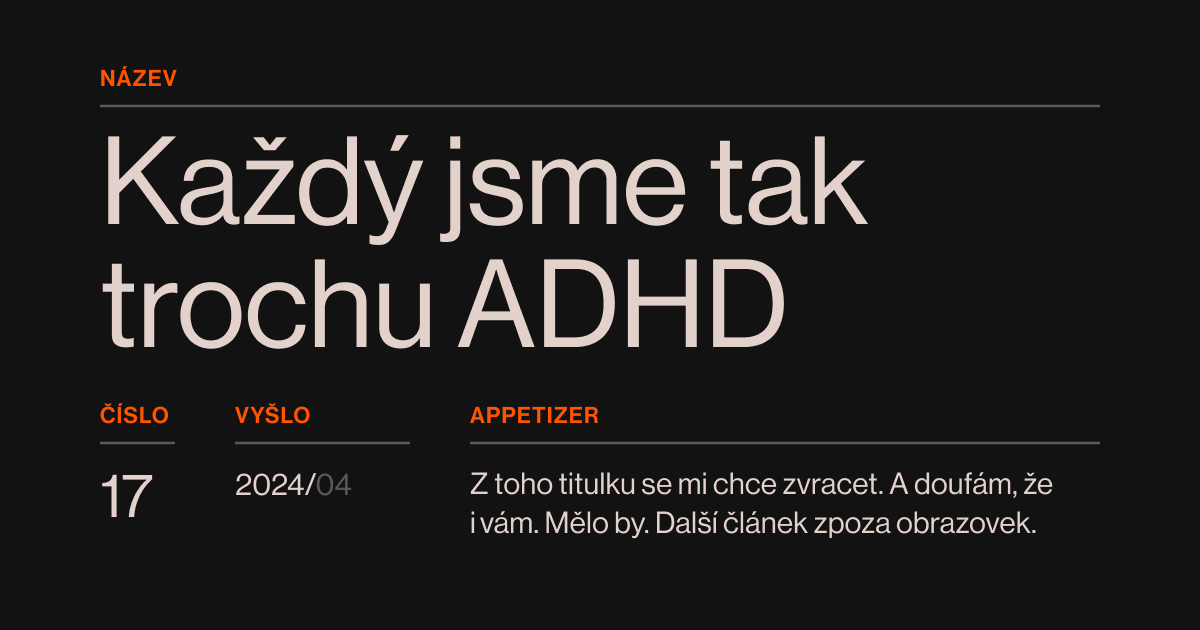
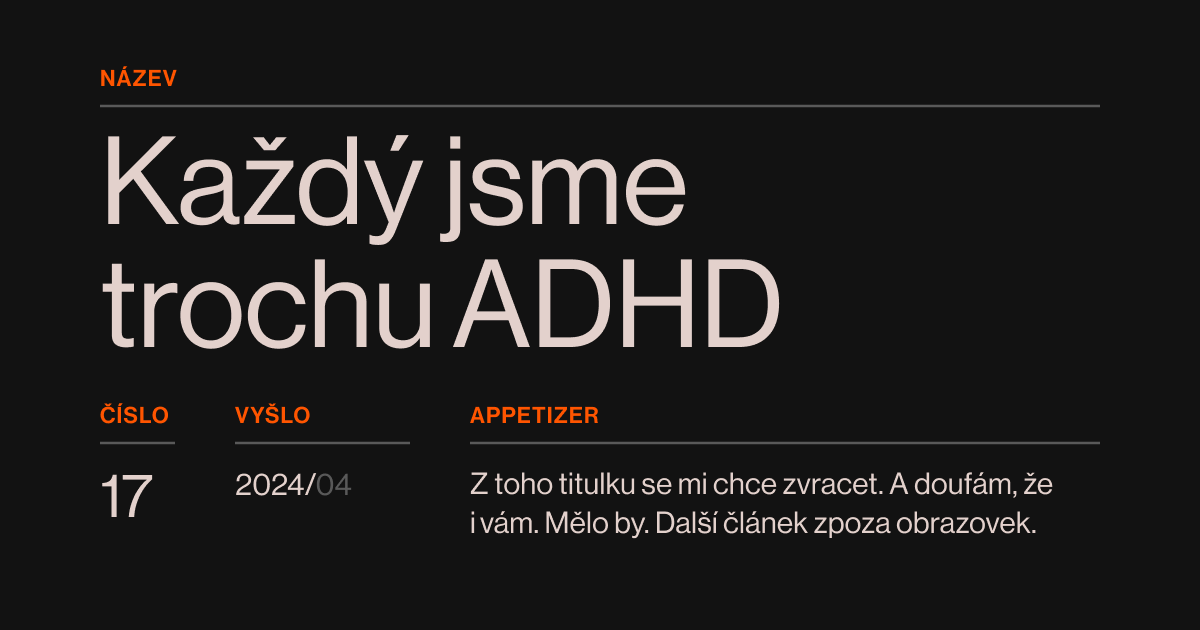
minor changes

Changed region(s): [[0.4933, 0.3921, 0.6783, 0.5429], [0.5858, 0.2111, 0.74, 0.3619], [0.37, 0.3921, 0.4625, 0.573]]

diff --git a/_posts/2024-04-23-kazdy-trochu-adhd.md b/_posts/2024-04-23-kazdy-trochu-adhd.md
@@ -1,0 +1,103 @@
+---
+layout: post
+author: scherrer.txt
+title: "Každý jsme trochu ADHD | Behind the Screens | by Scherrer.txt"
+name: Každý jsme trochu ADHD
+release: 2024/04
+perex: Z toho titulku se mi chce zvracet. A doufám, že i vám. Mělo by. Další článek zpoza obrazovek.
+order: "17"
+thumbnail: "https://raw.githubusercontent.com/scherrer-txt/bts/master/assets/thumbs/bts-17-thumb.png"
+---
+
+### Obsah
+{:.no_toc}
+
+* TOC
+{:toc}
+
+---
+
+> Člověk na vozíku fakt těžko vyjde schody do pátýho patra. Můj vozík není vidět. Ale to neznamená, že neexistuje a že je pro mě jednoduchý ty schody vyjít.
+
+## Krátký úvod
+Někdy zhruba v roce 2019/2020 jsem se začal víc zajímat o duševní zdraví. Necítil jsem se, že jsem úplně normální. Kdo četl moje předchozí články, ví, že jsem měl odmalička dost divný zájmy; byl jsem celkem zvláštní dítě. Potřeboval jsem to pojmenovat. Spadl jsem do králičí nory různých diagnóz a symptomů.
+
+Jedinej způsob, jak si pro sebe potvrdit nebo vyvrátit jakoukoliv možnou diagnózu bylo přijmout ji jako pravděpodobnou, a hledat věci, který ji potvrdí nebo vyvrátí. Vědecká metoda v praxi. Žádná z těch diagnóz se mnou ale dlouho nezůstala. I když do nějaký míry seděla, po přečtení výpovědí/žitých zkušeností lidí, co se s těma nemocema potýkají, jsem tam žádný větší pojítko neviděl.
+
+Jedna z věcí, která se ke mně ale dost často vracela, bylo ADHD. Když jsem se svěřil svým tehdejším kamarádům, dostalo se mi odpovědí, že „to má přece tak trochu každej“ a že „*to určitě není validní výmluva pro to, že seš nespolehlivej flákač*“, a že bych se sebou „*měl rozhodně něco začít konečně dělat, protože chodit furt pozdě není normální*“, a že „*zapomínat nebo neposlouchat to, co ti někdo říká, je taky fakt blbý*“.
+
+Well, guess what, není to normální — na tom se shodneme. Což ale trochu popírá to, že „*ADHD má přece každej*“, protože kdyby to měl opravdu každej, tak je všechno z předchozího odstavce přece „*normální*“, nebo?
+
+Tohle píšu jako relativně čerstvě diagnostikovaný člověk s ADHD a autismem. Čau všem, co tohle čtou.
+
+> Sebediagnóza je naprosto validní nástroj toho, jak si pomoct. No matter what anyone tries to tell you.
+
+## Sebediagnóza je první krok
+Sebediagnóza je první krok k tomu, aby se něco — cokoliv — mohlo dít. Příklad: ráno vstanu, motá se mi hlava, je mi na omdlení, cítím, že budu každou chvilkou zvracet, jsem bledej, necítím prsty, potím se, ale je mi zima — to je asi průser? Další logický krok je jít za doktorem, že?
+
+Když hoří barák, tak hasiči automaticky z garáže nevyrazí sami, někdo nejdřív na místě musí vyhodnotit, že to je průser, zavolat hasiče a ti pak teprv vyrazí. To stejný sanitka nebo policie. Příklad z mýho byznysu — někdo nejdřív musí zjistit, že ho třeba nikdo nebere moc vážně, protože má nic moc logo, aby mi napsal, že potřebuje změnu.
+
+Sebediagnóza je první krok. Ne vždycky se potvrdí jako správná. Hasiče, záchranku i policii je teda lepší volat i v případě pouhýho podezření, lepší je si být jistý. Z byznysu — někdy třeba není problém v logu, ale v brandingu nebo marketingu nebo produktu, a logo je jen špička ledovce. To se děje. A je to v pohodě. Mý klienti nejsou odborníci, já jo, proto mě platí. A jsem tu i od toho, abych ten problém rediagnostikoval, pokud je to nutný, a vyřešil symptomy.
+
+Takže pokud si o sobě kdokoliv myslí, že mají cokoliv, já osobně nemám důvod jim nevěřit. Je jen na nich, jestli se rozhodnou s tou sebediagnózou něco dělat a třeba vyhledat odbornictvo. Odbornictvo, který jim — jako já v designu — řekne, jestli je jejich domnění platný nebo mylný, a dál s tím pracuje.
+
+Blbý je, že „*vyhledat odbornictvo*“ se milionkrát líp řekne/napíše, než udělá. Slovy klasika, „[*ani očko nenasadíš*](https://youtu.be/SiUz_akTmcY)“. Spousta z nás má pořád sklony svoje duševní trápení zlehčovat. Zároveň samotná povaha našich duševních trápení nám často brání v tom, je řešit. Člověk s depresemi prostě svoje deprese řešit často nemůže. Člověk s ADHD prostě bude furt zapomínat na to, že má někam zavolat nebo napsat. To tak prostě je. A v neposlední řadě, odbornictvo je tak extrémně přetížený, že pokud někdo chce řešit svoje duševní trápení, tak s tím nejdřív musí přežít minimálně půl roku, než vůbec dostanou nějaký termín. A to je prostě na někoho moc. V lepším případě to nebudou řešit a budou žít objektivně míň kvalitní a spokojený život, v horším případě to celý ukončí.
+
+„*Ještě jednou mě někdo pošle někam za psychologem a fakt si ten mozek z hlavy vystřelím*[^1]“ je sentiment, který po svý vlastní diagnóze docela dost chápu. Jedna věc je pořád někoho někam posílat — což je mimochodem fakt debilní způsob, jak se někomu snažit „*pomoct*“ —, druhá věc je vědět, že to není jak vzít si číslo objednávky v mekáči a počkat pět minut. Ten proces hledání, čekání a objednání trvá měsíce, klidně i roky. A je plný bariér, který hromadu lidí, kterým má pomoct, paradoxně zastraší, demotivuje a odradí.
+
+> Nejdřív je potřeba problém pojmenovat, pak se s ním dá teprv pracovat
+
+## Sebediagnóza je naprosto validní
+Sebediagnóza je naprosto validní nástroj toho, jak si pomoct[^1]. **No matter what anyone tries to tell you.** Sami sebe známe mnohem líp, než jak nás zná někdo jiný. Sami se sebou trávíme nejvíc času, z první osoby vidíme naše akce a neustále vnímáme tok myšlenek v našich mozcích.
+
+Stojíme u zející rány v našem mozku, z který teče krev a hnis, a dokud si neřekneme: „*Jo, tohle je průser*,“ tak nám nic nepomůže. Nejdřív musíme vědět my sami, co s náma je. Často stačí mít jen představu nebo hypotézu.
+
+Sebediagnóza ale není jen nástroj pro pomoc zvenčí, ale především nástroj pro to, jak pomoct sami sobě. Jak věci, který se nám dějí/stavy, který máme/emoce, který (ne)cítíme dát z rámečku „*Nevím, prostě se cítím tak nějak* nijak“ do rámečku „*Je se mnou pravděpodobně X a/nebo Y*“. Místo neurčitýho, abstraktního, rozblemcanýho pocitu máme v ruce něco, co nám pomůže líp pochopit to, co se nám děje/stalo.
+
+Na internetu často čtu boomerský nářky nad tím, že dneska každý mladý člověk potřebuje ve svým biu na Instagramu mít písmenkovou polívku, ať už je to LGBTQIA+, NB nebo ADHD/ASD/PTSD nebo cokoliv jinýho[^1]. Že mladí lidi mají potřebu být zajímaví a vyčnívat nad ostatní a nálepkovat se[^1]. To je samozřejmě blbost. Není zajímavý patřit do vlastně už docela velký skupiny lidí. A není zajímavý bejt nemocnej. Jasně, existují lidi, kteří mají patologickou potřebu pozornosti, ale to je taky diagnóza sama o sobě, takže tam je nálepka vlastně na místě, akorát nepřesná. I tak je takových lidí mizivý procento. Většina z nás, co má nějakou nálepku v biu, ji tam má ze dvou důvodů:
+1. Aby ostatní onálepkovanci poznali, že patříme do stejnýho kmene (snižuje to sociální tření, říká to vlastně to, že „*když mi napíšeš, tak tě pravděpodobně budu chápat*“)
+2. Aby neonálepkovanci věděli, že interakce s náma bude trochu jiná, než na co jsou zvyklí (ozvu se ti, až budu chtít; buď si s tebou budu psát tři týdny v kuse nebo se tři měsíce neozvu; budu možná až moc upřímný/otevřený, protože reálně nerozumím tomu, proč něco někomu neříct)
+
+Osobně rozhodně nemám problém, že se „*patnáctiletý holky na tiktoku ohání ADHD nebo autismem*“[^1]. Nechává mě to chladným, maximálně bych jim tímhle rád vyjádřil podporu. Když bude víc lidí s ADHD, tak já fakt určitě nebudu mít míň problémů s tím svým, budu jich mít furt stejně. Zároveň nevidím důvod, proč by si někdo o sobě něco vymýšlel, aby dostal směšný internetový bodíky. Zároveň, díky otevření tématu duševních chorob na sociálních sítích má hromada lidí konečně možnost si o sobě něco uvědomit. Třeba jako Alena Spálenská, která právě [díky TikToku přišla](https://denikn.cz/928918/diagnozu-adhd-u-sebe-odhalila-az-na-vysoke-skole-diky-tiktoku-nyni-o-ni-siri-osvetu/) na to, že má ADHD; teď studuje psychologii a šíří osvětu o ADHD skrz profil [Můj ADHD mozek](https://www.instagram.com/muj_adhd_mozek). Skoro 12 tisíc lidí se díky ní učí, jak s tím žít. Mnohem míň exponovaný příklad toho, jaký má diagnóza účel, napsala třeba tatérka [Kačka na Threads](https://www.threads.net/@tetovacky_od_kacky/post/C1ceyW-r_iZ).
+
+Jo a jen taková poznámka bokem — sebediagnóza i diagnóza jsou obě subjektivní záležitosti. Akorát při sebediagnóze se diagnostikuje sám subjekt, při diagnóze hodnotí subjektivně pozorovatelstvo. Deset psychiatrů by jednoho člověka posoudilo deseti různýma způsobama. Neexistuje objektivní měřítko toho, kdo ještě je a kdo už není ADHD nebo ASD; i přes veškerý DSM manuály pořád záleží na konkrétním člověku, na jeho úsudku a na tom, jestli je podle nich pacientstvo dostatečně hyperaktivní nebo autistický. To říkám pro jistotu předem, než mi někdo bude chtít tvrdit, že nějaký odbornictvo má patent na pravdu. Jako jo a ne. Je složitější.
+
+> Nikdy nebylo tak jednoduchý se nechat diagnostikovat a léčit bez toho, aby nemocným lidem někdo strkal cepín přes oční důlek do mozku
+
+## Epidemie duševních chorob
+I tak by se dalo shrnout to, co se teď děje na celým světě. [Každý desátý dítě](https://www.ncbi.nlm.nih.gov/pmc/articles/PMC10551769/) v Americe má ADHD, celosvětově [každý dvacátý](https://www.ncbi.nlm.nih.gov/pmc/articles/PMC7508636/). U dospělých [je to podobný](https://www.ncbi.nlm.nih.gov/pmc/articles/PMC7916320/). A to ani nemluvím o depresích, autismu, úzkostech, hraničářích nebo bipolárech a ostatních. Skoro to působí, že nikdy předtím v historii nebylo tolik duševně nemocných lidí. Jenže nikdy předtím v historii lidstva nebyly tak dostupný informace, nebylo tak jednoduchý se o duševní zdraví zajímat, nebylo tak jednoduchý se nechat diagnostikovat a naučit se s tím pracovat (od nedávna dokonce i bez toho, aby nemocným lidem někdo strkal cepín přes oční důlek do mozku[^3]) — a to i přes to, že jsem pár řádku dozadu říkal, že to není easy. Není. Ale je to furt objektivně nejvíc easy ever.
+
+Vypůjčil bych si název knihy Filipa Titlbacha — [Byli jsme tu vždycky](https://www.goodreads.com/book/show/60309940-byli-jsme-tu-v-dycky). Nebyl jazyk na to, abychom dokázali říct „*tohle je porucha pozornosti, takovýhle to má projevy*“; místo toho se říkalo, že jsme „*neklidní*“, „*netrpěliví*“, „*horliví*“, „*přelétaví*“, „*renesanční lidé*“. A buď jsme se maskovali dostatečně dobře a „*zapadli jsme*“ nebo jsme byli ~~blázni~~ excentričtí jedinci s hlavou v oblacích, neschopní se soustředit, rebelové, vyvrženci[^4].
+
+Sokrates. Hypatia. Alexandr. Archimedes. Hannibal. Caesar. da Vinci. Michelangelo. Newton. Mozart. van Gogh. Darwin. Lincoln. Edison. Tesla. Hemingway. Curie. Albert Einstein. Woolf. Warhol. Plath.
+Všichni tihle jmenovaní se zapsali do lidských dějin. U každýho z nich mají historici důvodný podezření, že měli buď ADHD, autismus a/nebo trpěli depresí.
+
+To, co se teď jeví jako „*epidemie*“ ve skutečnosti žádná epidemie není. Když Portugalci a Španělé začali objevovat Nový svět, taky se zničehonic nezačal generovat nový kontinent — byl tam celou dobu. Jen konečně Evropani měli možnosti na to, aby mohli objevovat. S objevem různých nových druhů rakoviny dramaticky vzrostl počet lidí, co na tyhle nový druhy rakoviny umírali. Nemocných nepřibývá, je jich furt stejně. Jen máme lepší chápání různých nemocí, lepší nástroje jak je identifikovat.
+
+> If you can’t handle me at my worst, you don’t deserve me at my best
+
+## Duševní choroba jako výmluva
+Hele, jo. Občas je to fakt lákavý se vymluvit na to, že já vlastně za nic nemůžu, že jsem jenom chudák, co mu mozek nemozkuje tak, jako ostatním. Že moje ADHD chodí pozdě, já ne. Ale realita je jinde. Svoje ADHD a autismus beru jako součást toho, jakej jsem. Bez toho bych takovej nebyl. Je to něco, co ode mě nejde oddělit, ani kdybych sebevíc chtěl. Má to svoje neuvěřitelně silný stránky, ale i fakt na hovno zápory. It is what it is. I tak ale dělám [hromadu](bezcasi-ktery-meni-zivot) [věcí](beru-5-prasku-kazdy-rano) pro to, aby se mi s tím žilo dobře. Autismus a/nebo ADHD fakt není superschopnost. Jestli něco, tak je to mentální opičí pracka[^5].
+
+Jsem řád v chaosu. Moje aktivity, můj život, moje zájmy, všechno je to chaos. Cokoliv, co dělám, ale má nějaký řád a strukturu. V jednu chvíli píšu blog, kóduju web, dělám design, upravuju fotky, ochutnávám rumy, studuju neurovědu a filozofii, v další chvíli pečlivě ukládám, třídím a organizuju, formátuju poznámky, uklízím v počítači a pojmenovávám složky, přeskládávám. Mám chaos v celku, ale řád v detailech. Pohybuju se v cyklech „napáchat šílenej bordel“ a pak „perfektně uklidit bordel“. Je to nevyzpytatelný, ale ani kdybych sebevíc chtěl, tak to nezměním. A nechci. Nechci měnit to, jakej jsem, jen pro to, aby někdo jinej *něco*. Buď mě lidi berou takovýho, jakej jsem, anebo ne. S obojím jsem v pohodě. A jsem fakt rád, že se mi posledních pár let daří mít kolem sebe podobně zmagořený lidi. Je to pěkný. V mým světě jsou „*normální lidi*“ ti v menšině, „*ti nemocní*“, „*ti hendikepovaní*“, kterým „*mozek nemozkuje správně*“.
+
+Mít ADHD a autismus pro mě znamená mít zodpovědnost. Zodpovědnost za to, že se učím umět vysvětlit, co se se mnou děje. Jedna věc je mít jakýkoliv problém, druhá je umět ho odkomunikovat. Že nechodím pozdě, protože mám ostatní na párku, ale protože jsem ztracenej v čase, nemám reálný odhad a vždycky vycházím z ideální varianty, ne z reality. Že lidi neghostuju schválně, ale že reálně „*sejde z očí, sejde z mysli*“. Že nejsem na online psaní, ale mnohem radši se sejdu na pivku, u čaje, u kávy, protože irl vnímám líp a víc než na mobilu nebo u počítače, kde mi pozornost tahá miliarda záložek a hýbajících se věcí. A že když neodepíšu hned, ať napíšou jindy znova. Odpovím vždycky, i když to prostě občas trochu trvá.
+
+Všechno má nějakou příčinu. Když vytvořím nějaký problém/situaci, neříkám „*no jo, to je to moje ADHD*“, říkám „*oukej, tohle se stalo, je to blbý, pojďme zkusit udělat XY, protože AB mi nefunguje*“. Shodit to na „*ADHD*“ je výmluva. Vysvětlit, proč mi některý věci dělají problém, je legit — ještě víc je to legit v momentě, kdy přijdu s nějakým možným řešením. Jsem designer, přemýšlím designově, všechno je to jen o tom se iteracema dostat do funkčního modelu.
+
+Naštěstí moc zkušeností s tím, že by mi někdo do očí řekl, že se „*vymlouvám*“, nemám. Doufám, že je to díky tomu, jak tyhle věci komunikuju. S čím mám ale až moc zkušeností je bohužel to, že přesně odkomunikuju svoje potřeby, ale druhá strana je ignoruje. Důvod nesdělí, jen se pak později diví, že XY nefunguje, když jsem přesně říkal, co potřebuju, aby XY mohlo fungovat. To je pak trochu blbý, [ale nenaděláš nic](https://youtu.be/SiUz_akTmcY?t=435).
+
+Člověk na vozíku fakt těžko vyjde schody do pátýho patra. Můj vozík není vidět. Ale to neznamená, že neexistuje a že je pro mě jednoduchý ty schody vyjít.
+
+
+---
+## Poznámky pod čarou
+{:.no_toc}
+
+{: data-content=“footnotes“}
+
+[^1]: Přesný citace nemám, ale narazil jsem na tyhle názory na Threads. Tam je diskuze o sebediagnóze docela živá a vyjadřuje se k ní v různý podobě různou formou kde kdo.
+[^2]: [Tohle](https://www.threads.net/@jsemjosie/post/C4dOs5AsDr5) a [původní Thread](https://www.threads.net/@brain.curiosities/post/C4YyU9lMEud)vlákno to za mě shrnuje docela dobře
+[^3]: Lobotomie. A fakt se i používal cepín (obrovská jehla na led). Ilustrace [tady](https://images.saymedia-content.com/.image/c_limit%2Ccs_srgb%2Cq_auto:eco%2Cw_625/MTc2MjYwOTc5MjUwODMyNTU3/a-hole-in-the-head.webp). Kdo by si o tom chtěl přečíst víc, tak [tady](https://cs.wikipedia.org/wiki/Lobotomie).
+[^4]: Koho by to zajímalo, tady je na to studie, nazvaná „[Who says this is a modern disorder? The early history of attention deficit hyperactivity disorder](https://www.ncbi.nlm.nih.gov/pmc/articles/PMC4694551/)“
+[^5]: Přání, který se vyplní špatně; byla o tom [epizoda Simpsonů](https://cs.wikipedia.org/wiki/Zvláštní_čarodějnický_díl); v praxi si přeješ třeba hromadu peněz a nejnovější Mercedes, ale dostaneš hromadu prošlých bankovek a model autíčka nebo si přeješ světovej mír, ale dostaneš vyhlazení lidstva.
